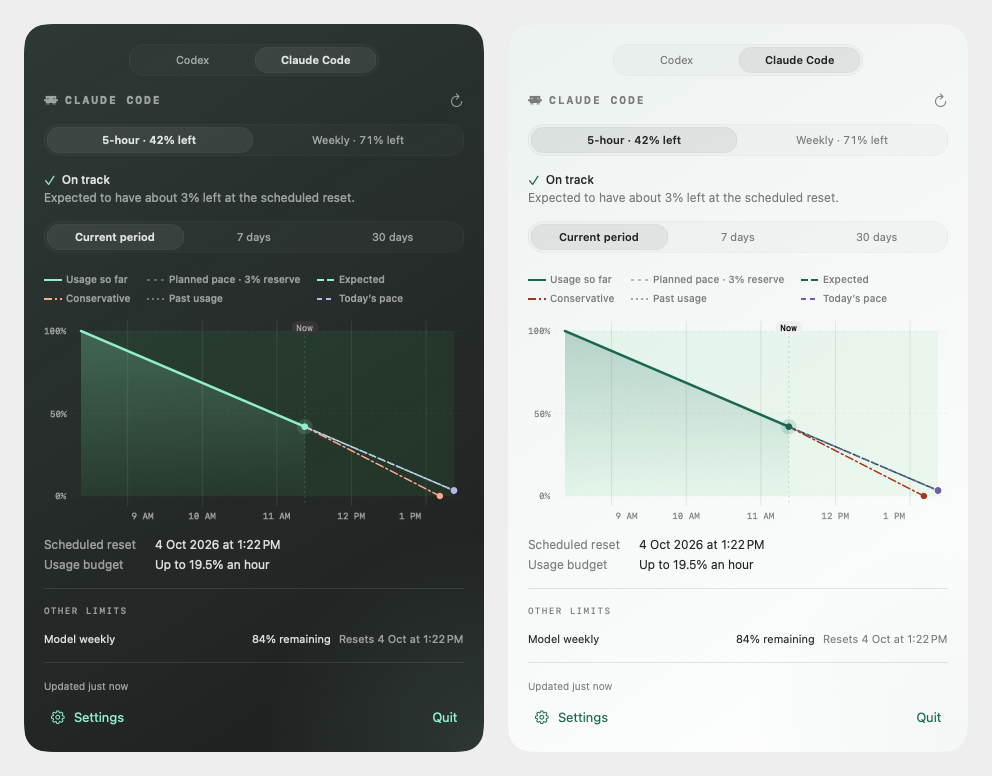
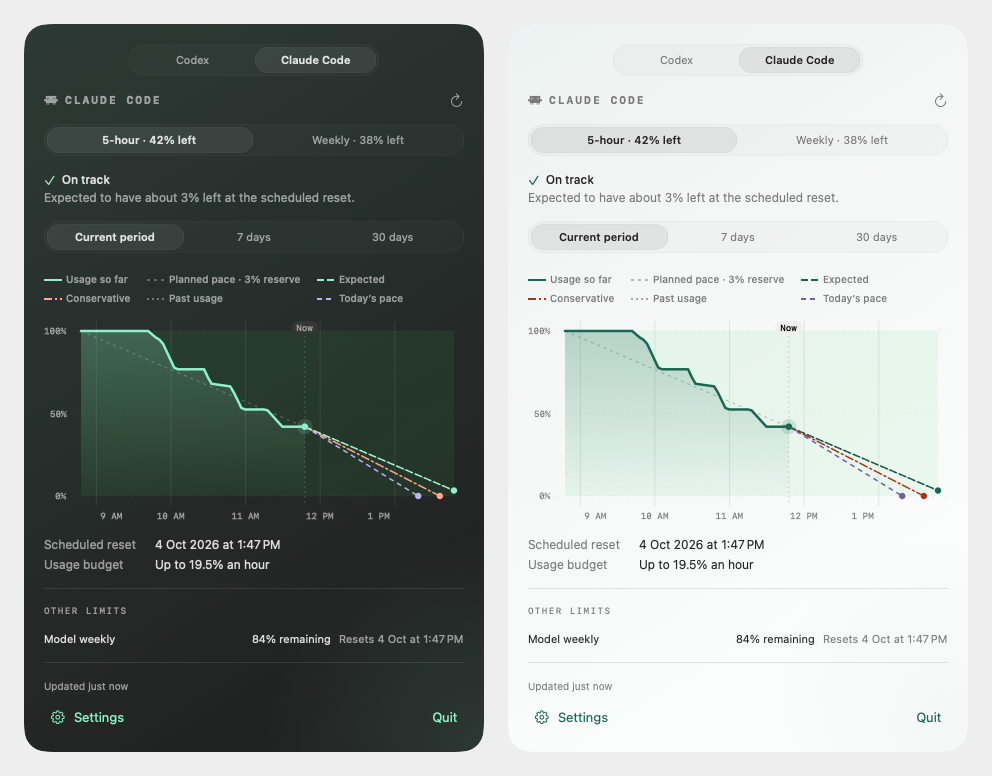
Illustrate realistic usage and useful forecast warnings
Replace straight synthetic histories with uneven work sessions and quiet periods. Demonstrate a busy week where accelerating usage exhausts the allowance before reset, while historical pacing alone looks comfortable. Feed the same readings to the dashboard and adjacent widgets and explain the production forecast results in the README.

Validate the full preview renderer, scenario assertions, published pictures, and aligned versions for source-only release 0.5.15 (42).

diff --git a/Scripts/MenuPreviewRenderer.swift b/Scripts/MenuPreviewRenderer.swift
@@ -21,8 +21,24 @@ enum MenuPreviewRenderer {
             defaults.removePersistentDomain(forName: suite)
             try? FileManager.default.removeItem(at: temporary)
         }
-        let weekly = WeeklyWidgetSnapshot.preview(at: now)
-        let window = UsageWindow(remainingPercent: 68, resetsAt: weekly.window!.resetsAt, durationMinutes: 10_080)
+        let window = UsageWindow(remainingPercent: 38, resetsAt: now.addingTimeInterval(3 * 86_400), durationMinutes: 10_080)
+        let samples = weeklySamples(window: window, now: now)
+        let forecast = ForecastEngine.evaluate(window: window, samples: samples, tokenHistory: [],
+                                               safetyBuffer: 3, now: now, previousStatus: nil)
+        precondition(forecast.status == .slowDown && forecast.expectedRemainingAtReset == 0
+                     && forecast.historicalRemainingAtReset > 3)
+        let expectedDays = window.remainingPercent / forecast.currentPercentPerDay
+        let conservativeDays = window.remainingPercent / forecast.safetyPercentPerDay
+        print("README forecast: expected exhaustion in \(expectedDays) days; conservative in \(conservativeDays) days; "
+              + "reset in 3 days; historical balance \(forecast.historicalRemainingAtReset)%")
+        let weekly = WeeklyWidgetSnapshot(
+            fetchedAt: now,
+            window: .init(remainingPercent: window.remainingPercent, startsAt: window.startsAt, resetsAt: window.resetsAt),
+            samples: samples.filter { $0.resetsAt == window.resetsAt }.map {
+                .init(date: $0.observedAt, remainingPercent: $0.remainingPercent)
+            },
+            pace: .slowDown
+        )
         let snapshot = UsageSnapshot(
             mainLimit: .init(limitId: "codex", name: "Codex", window: window),
             otherLimits: [.init(limitId: "codex", name: "5-hour limit", window: .init(remainingPercent: 92, resetsAt: now.addingTimeInterval(9_000), durationMinutes: 300))],
@@ -34,25 +50,6 @@ enum MenuPreviewRenderer {
             ],
             fetchedAt: now
         )
-        let samples = (0 ... 1_440).map { index in
-            let date = now.addingTimeInterval(Double(index - 1_440) * 1_800)
-            let elapsed = date.timeIntervalSince(window.startsAt)
-            let cycle = floor(elapsed / (7 * 86_400))
-            let cycleStart = window.startsAt.addingTimeInterval(cycle * 7 * 86_400)
-            let days = date.timeIntervalSince(cycleStart) / 86_400
-            let remaining = max(0, 100 - days * (cycle == 0 ? 32.0 / 3 : 13))
-            return UsageSample(observedAt: date, remainingPercent: remaining,
-                               resetsAt: cycleStart.addingTimeInterval(7 * 86_400), durationMinutes: 10_080)
-        }.filter { sample in
-            // Collection gaps check continuous connections and the muted fill.
-            let age = now.timeIntervalSince(sample.observedAt)
-            let hours = age / 3_600
-            let longGap = (240.0 ... 248.0).contains(hours)
-            let recentGap = (48.0 ... 60.0).contains(hours)
-            let isolatedReadings = (96.0 ... 120.0).contains(hours)
-                && Int(age / 1_800) % 4 != 0
-            return !longGap && !recentGap && !isolatedReadings
-        }
         defaults.set(try JSONEncoder().encode(State(snapshot: snapshot, samples: samples, previousStatus: nil)), forKey: "usageState")
         let monitor = UsageMonitor(
             defaults: defaults, historyDirectory: temporary,
@@ -112,7 +109,7 @@ enum MenuPreviewRenderer {
         defaults.set("", forKey: creditPreference)
 
         let comparison = VStack(alignment: .leading, spacing: 24) {
-            Text("CODEX LIMITS · ONE VISUAL LANGUAGE")
+            Text("CODEX LIMITS · SEE THE WEEK AHEAD")
                 .font(.system(size: 12, weight: .medium, design: .monospaced))
                 .tracking(2).foregroundStyle(.secondary)
             HStack(alignment: .top, spacing: 28) {
@@ -120,11 +117,11 @@ enum MenuPreviewRenderer {
                 VStack(alignment: .leading, spacing: 24) {
                     WeeklyGraphView(snapshot: weekly, date: now)
                         .frame(width: 364, height: 170)
-                        .background { UsageSurfaceBackground(remaining: 68) }
+                        .background { UsageSurfaceBackground(remaining: window.remainingPercent) }
                         .clipShape(RoundedRectangle(cornerRadius: 23))
                     WeeklyPercentageView(snapshot: weekly, date: now)
                         .frame(width: 170, height: 170)
-                        .background { UsageSurfaceBackground(remaining: 68) }
+                        .background { UsageSurfaceBackground(remaining: window.remainingPercent) }
                         .clipShape(RoundedRectangle(cornerRadius: 23))
                     Text("SYNTHETIC PREVIEW DATA")
                         .font(.system(size: 9, design: .monospaced)).foregroundStyle(.secondary)
@@ -226,7 +223,7 @@ enum MenuPreviewRenderer {
                     ChartHoverReadout(title: "Banked reset", detail: "Expires Sep 21 at 8:14 AM", symbol: "arrow.counterclockwise", hint: "Click to use this expiry as your pacing target.")
                 }
                 .padding(20).frame(width: 460)
-                .background { UsageSurfaceBackground(remaining: 68) }
+                .background { UsageSurfaceBackground(remaining: window.remainingPercent) }
                 .environment(\.colorScheme, scheme)
                 .clipShape(RoundedRectangle(cornerRadius: 23))
             }
@@ -234,14 +231,22 @@ enum MenuPreviewRenderer {
         .padding(24).background(Color.gray.opacity(0.15))
         try render(detailStyles, to: output.appendingPathComponent("menu-detail-styles.png"))
 
+        let historySamples = samples.filter { sample in
+            let hours = now.timeIntervalSince(sample.observedAt) / 3_600
+            let longGap = (240.0 ... 248.0).contains(hours)
+            let recentGap = (48.0 ... 60.0).contains(hours)
+            let isolatedReadings = (96.0 ... 120.0).contains(hours)
+                && Int(hours * 2) % 4 != 0
+            return !longGap && !recentGap && !isolatedReadings
+        }
         let history = HStack(alignment: .top, spacing: 24) {
             ForEach([ColorScheme.dark, .light], id: \.self) { scheme in
                 VStack(alignment: .leading, spacing: 16) {
                     Text("30-DAY HISTORY").font(.system(size: 11, weight: .medium, design: .monospaced))
-                    HistoryChart(samples: samples, range: now.addingTimeInterval(-30 * 86_400) ... now, bucketDuration: 1_800, visibleDuration: nil, remainingPercent: 68)
+                    HistoryChart(samples: historySamples, range: now.addingTimeInterval(-30 * 86_400) ... now, bucketDuration: 1_800, visibleDuration: nil, remainingPercent: window.remainingPercent)
                 }
                 .padding(20).frame(width: 460)
-                .background { UsageSurfaceBackground(remaining: 68) }
+                .background { UsageSurfaceBackground(remaining: window.remainingPercent) }
                 .clipShape(RoundedRectangle(cornerRadius: 23))
                 .environment(\.colorScheme, scheme)
             }
@@ -253,10 +258,10 @@ enum MenuPreviewRenderer {
             ForEach([ColorScheme.dark, .light], id: \.self) { scheme in
                 VStack(alignment: .leading, spacing: 16) {
                     Text("7-DAY HISTORY · SAMPLING GAPS").font(.system(size: 11, weight: .medium, design: .monospaced))
-                    HistoryChart(samples: samples, range: now.addingTimeInterval(-7 * 86_400) ... now, bucketDuration: 1_800, visibleDuration: 7 * 86_400, remainingPercent: 68)
+                    HistoryChart(samples: historySamples, range: now.addingTimeInterval(-7 * 86_400) ... now, bucketDuration: 1_800, visibleDuration: 7 * 86_400, remainingPercent: window.remainingPercent)
                 }
                 .padding(20).frame(width: 460)
-                .background { UsageSurfaceBackground(remaining: 68) }
+                .background { UsageSurfaceBackground(remaining: window.remainingPercent) }
                 .clipShape(RoundedRectangle(cornerRadius: 23))
                 .environment(\.colorScheme, scheme)
             }
@@ -268,6 +273,47 @@ enum MenuPreviewRenderer {
 
     private struct ActivityHistoryDay: Decodable {
         let samples: [UsageSample]
+    }
+
+    private static func weeklySamples(window: UsageWindow, now: Date) -> [UsageSample] {
+        let day: TimeInterval = 86_400
+        let currentDailyUse = [4.0, 10, 14, 34, 8, 8, 8]
+        let historicalDailyUse = [7.0, 9, 6, 10, 8, 5, 11]
+        let elapsedDays = now.timeIntervalSince(window.startsAt) / day
+        let currentUse = cumulativeUse(at: elapsedDays, dailyUse: currentDailyUse)
+        return (0 ... 1_440).map { index in
+            let date = now.addingTimeInterval(Double(index - 1_440) * 1_800)
+            let elapsed = date.timeIntervalSince(window.startsAt)
+            let cycle = floor(elapsed / (7 * day))
+            let cycleStart = window.startsAt.addingTimeInterval(cycle * 7 * day)
+            let days = date.timeIntervalSince(cycleStart) / day
+            let used = cycle == 0
+                ? cumulativeUse(at: days, dailyUse: currentDailyUse) / currentUse * (100 - window.remainingPercent)
+                : cumulativeUse(at: days, dailyUse: historicalDailyUse)
+            return UsageSample(observedAt: date, remainingPercent: max(0, 100 - used),
+                               resetsAt: cycleStart.addingTimeInterval(7 * day), durationMinutes: 10_080)
+        }
+    }
+
+    private static func cumulativeUse(at days: Double, dailyUse: [Double]) -> Double {
+        let completed = min(max(Int(days), 0), dailyUse.count)
+        let consumed = dailyUse.prefix(completed).reduce(0, +)
+        guard completed < dailyUse.count else { return consumed }
+        return consumed + dailyUse[completed] * sessionProgress(days - Double(completed))
+    }
+
+    private static func sessionProgress(_ progress: Double) -> Double {
+        // Flat stretches represent breaks; uneven drops represent focused work sessions.
+        let knots: [(time: Double, used: Double)] = [
+            (0, 0), (0.30, 0), (0.34, 0.08), (0.36, 0.10),
+            (0.42, 0.40), (0.55, 0.40), (0.58, 0.55), (0.67, 0.58),
+            (0.72, 0.82), (0.83, 0.82), (0.90, 1), (1, 1)
+        ]
+        for (start, end) in zip(knots, knots.dropFirst()) where progress <= end.time {
+            let fraction = max(0, (progress - start.time) / (end.time - start.time))
+            return start.used + fraction * (end.used - start.used)
+        }
+        return 1
     }
 
     @MainActor private static func renderPeriods(at now: Date, to output: URL) async throws {
@@ -290,7 +336,7 @@ enum MenuPreviewRenderer {
                     remainingPercent: 42, resetsAt: expiredFiveHour ? now.addingTimeInterval(-300) : reset,
                     durationMinutes: 300))
                 let weekly = LimitReading(limitId: provider.rawValue, name: "Weekly", window: UsageWindow(
-                    remainingPercent: 71, resetsAt: expiredWeekly ? now.addingTimeInterval(-300) : reset,
+                    remainingPercent: 38, resetsAt: expiredWeekly ? now.addingTimeInterval(-300) : now.addingTimeInterval(3 * 86_400),
                     durationMinutes: 10_080))
                 let model = LimitReading(limitId: "\(provider.rawValue)-model", name: "Model weekly", window: UsageWindow(
                     remainingPercent: 84, resetsAt: reset, durationMinutes: 10_080))
@@ -300,11 +346,14 @@ enum MenuPreviewRenderer {
                 let samples = [fiveHour, weekly].filter { reading in
                     snapshot.limit(for: reading.window.durationMinutes == 300 ? .fiveHour : .weekly, provider: provider) != nil
                 }.flatMap { reading in
-                    (0 ... 30).map { index in
-                        let progress = Double(index) / 30
+                    if reading.window.durationMinutes == 10_080 {
+                        return weeklySamples(window: reading.window, now: fetchedAt)
+                    }
+                    return (0 ... 60).map { index in
+                        let progress = Double(index) / 60
                         let elapsed = fetchedAt.timeIntervalSince(reading.window.startsAt) * progress
                         return UsageSample(observedAt: reading.window.startsAt.addingTimeInterval(elapsed),
-                                           remainingPercent: 100 - (100 - reading.window.remainingPercent) * progress,
+                                           remainingPercent: 100 - (100 - reading.window.remainingPercent) * sessionProgress(progress),
                                            resetsAt: reading.window.resetsAt, durationMinutes: reading.window.durationMinutes)
                     }
                 }

diff --git a/README.md b/README.md
@@ -18,7 +18,7 @@
 <p align="center">
   <img src="docs/images/menu-and-widgets.png" width="908" alt="Codex dashboard with five-hour and weekly balance selectors, the weekly forecast, and weekly graph and percentage widgets in dark appearance">
   <br>
-  <sub>The Codex weekly dashboard and both desktop widgets, rendered from the current app views with synthetic example data.</sub>
+  <sub>A busier week: uneven work sessions leave 38% remaining, but the forecast warns it may not last until reset. Dashboard and widgets use the same synthetic readings.</sub>
 </p>
 
 > [!NOTE]
@@ -132,6 +132,19 @@ Open the menu to see:
 - Other reported limits and available banked resets.
 
 Desktop widgets always show the weekly limit, so their percentage can differ from the menu bar.
+
+## Example: when 38% remaining is not enough
+
+The opening picture shows a synthetic week with breaks between work sessions and
+heavier usage toward the end. There are **three days until reset**, but the most
+recent day used **34 percentage points** of the allowance.
+
+Past usage alone would leave about **14% at reset**. The expected forecast accounts
+for the recent acceleration and reaches zero in about **1.6 days**; the conservative
+forecast reaches zero in about **1.1 days**. The suggested budget is **11.7 percentage
+points per day**, leaving the configured 3% reserve. The separated forecast lines
+show why slowing down now matters even though the remaining balance looks comfortable.
+These numbers come from the app's forecast engine applied to synthetic readings.
 
 ## How to read the charts
 
